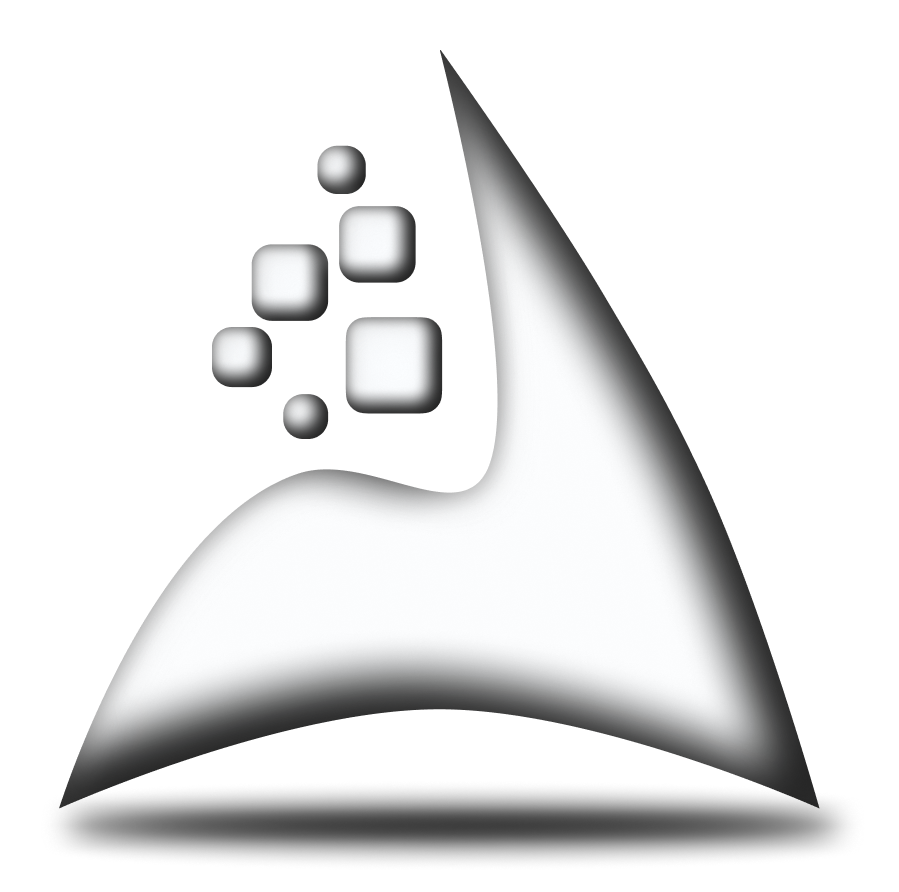
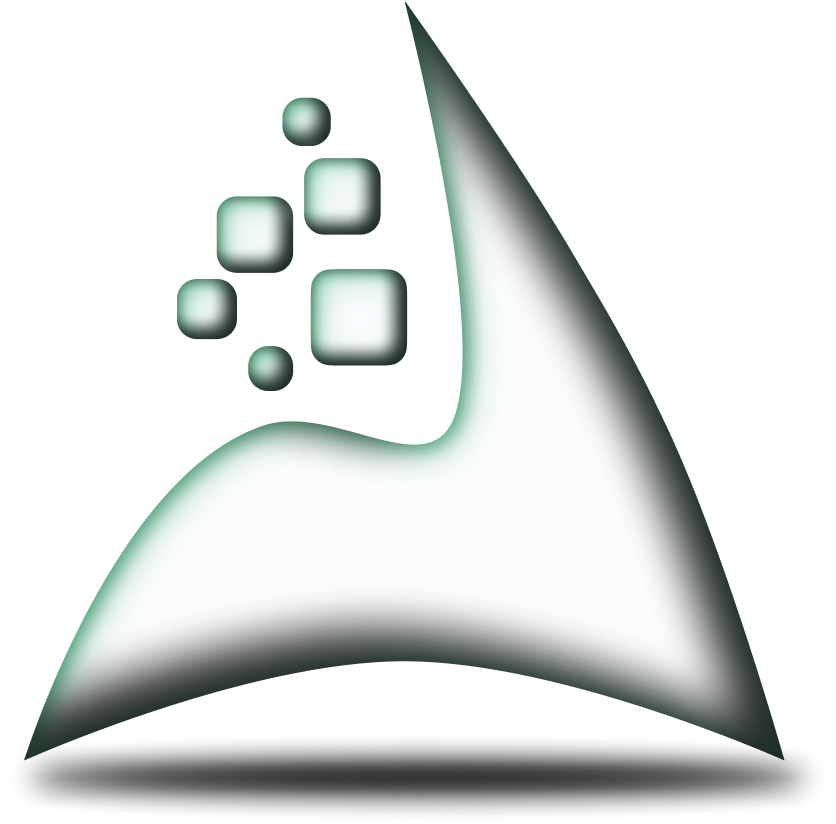
Feat: Add "about us" and "services" pages; Add a primary color

Changed region(s): [[0.0311, 0.0, 0.9641, 1.0], [0.3421, 0.7585, 0.7464, 0.8495], [0.2177, 0.8192, 0.3421, 0.8495]]

diff --git a/src/components/homepage_components/Services.tsx b/src/components/homepage_components/Services.tsx
@@ -12,36 +12,36 @@ export const Services = () => {
       title: "Process Automation",
       content:
         "Automate repetitive workflows across departments using RPA bots and integrations.",
-      icon: <WorkflowIcon className="w-6 h-6" />,
+      icon: <WorkflowIcon className="w-6 h-6" stroke="#fff" />,
     },
     {
       title: "Data Handling",
       content:
         "Extract, transform, and migrate data securely between systems — fast and error-free.",
-      icon: <DatabaseIcon className="w-6 h-6" />,
+      icon: <DatabaseIcon className="w-6 h-6" stroke="#fff" />,
     },
     {
       title: "Compliance & Auditing",
       content:
         "Ensure process compliance with logging, tracking, and audit-ready automation.",
-      icon: <ShieldCheckIcon className="w-6 h-6" />,
+      icon: <ShieldCheckIcon className="w-6 h-6" stroke="#fff" />,
     },
     {
       title: "Bot Monitoring",
       content:
         "Monitor your bots in real-time and receive alerts to guarantee operational stability.",
-      icon: <MonitorIcon className="w-6 h-6" />,
+      icon: <MonitorIcon className="w-6 h-6" stroke="#fff" />,
     },
   ];
   return (
     <section className="px-6 py-10 bg-black text-white">
-      <h2 className="text-3xl bg-gradient-to-r from-white to-[#737373] bg-clip-text text-transparent mt-14 mb-6 w-fit">
+      <h2 className="text-3xl bg-gradient-to-r from-white to-[#737373] bg-clip-text text-transparent mb-6 w-fit">
         Our Services
       </h2>
       <div className="grid grid-rows-4 divide-y divide-[#505050]">
         {servicesDict.map((item) => (
           <div key={item.title} className="flex items-start gap-4 py-4">
-            <div className="p-3 bg-white text-black rounded-xl">
+            <div className="p-3 bg-primaryL text-black rounded-xl">
               {item.icon}
             </div>
             <div>

diff --git a/src/components/homepage_components/Hero.tsx b/src/components/homepage_components/Hero.tsx
@@ -1,0 +1,50 @@
+"use client";
+import Image from "next/image";
+import Link from "next/link";
+
+export const Hero = () => {
+  return (
+    <main className="px-6 lg:pl-48 relative flex flex-col lg:flex-row">
+      <div className="pt-10 lg:pt-32">
+        <h1 className="uppercase font-bold text-4xl lg:text-5xl bg-gradient-to-r from-white to-[#737373] bg-clip-text text-transparent w-fit">
+          Improving and optimizing
+          <br />
+          your company processes
+        </h1>
+        <div className="flex justify-between items-center gap-x-2 py-8">
+          <div className="flex gap-x-2">
+            <div className="w-1 h-1 bg-white rounded-full" />
+            <div className="w-1 h-1 bg-white rounded-full" />
+            <div className="w-1 h-1 bg-white rounded-full" />
+          </div>
+          <hr className="bg-gradient-to-r from-white to-[#737373] h-[2px] w-full" />
+        </div>
+
+        <div className="gap-y-6 flex flex-col">
+          <Link
+            href="/services"
+            className="text-center font-2 text-xl rounded-full py-3 bg-primaryL text-white w-[calc(30vw+50px)] cursor-pointer shadow-[]"
+          >
+            Services
+          </Link>
+          <Link
+            href="/about"
+            className="text-center font-2 text-xl rounded-full py-3 border-2 border-[#fff] text-white w-[calc(30vw+50px)] cursor-pointer"
+          >
+            See More
+          </Link>
+        </div>
+
+        <div className="flex justify-center items-center">
+          <Image
+            width={899}
+            height={892}
+            alt="Introduction logo"
+            src="/introducao.png"
+            className="w-full lg:w-[899px] lg:max-w-[60vw] aspect-square"
+          />
+        </div>
+      </div>
+    </main>
+  );
+};

diff --git a/src/components/comum_components/Footer.tsx b/src/components/comum_components/Footer.tsx
@@ -25,11 +25,11 @@ export const Footer = () => {
               width="36"
               height="36"
               viewBox="0 0 50 50"
-              fill="#ddd"
+              fill="var(--primaryxL)"
             >
               <path d="M41,4H9C6.24,4,4,6.24,4,9v32c0,2.76,2.24,5,5,5h32c2.76,0,5-2.24,5-5V9C46,6.24,43.76,4,41,4z M17,20v19h-6V20H17z M11,14.47c0-1.4,1.2-2.47,3-2.47s2.93,1.07,3,2.47c0,1.4-1.12,2.53-3,2.53C12.2,17,11,15.87,11,14.47z M39,39h-6c0,0,0-9.26,0-10 c0-2-1-4-3.5-4.04h-0.08C27,24.96,26,27.02,26,29c0,0.91,0,10,0,10h-6V20h6v2.56c0,0,1.93-2.56,5.81-2.56 c3.97,0,7.19,2.73,7.19,8.26V39z"></path>
             </svg>
-            <p>Linkedin</p>
+            <p className="text-primaryxL">Linkedin</p>
           </a>
           <a
             href="https://www.instagram.com/leveling.corp/"
@@ -37,8 +37,8 @@ export const Footer = () => {
             aria-label="Instagram"
             className="hover:text-gray-400 flex gap-x-2 justify-center items-center"
           >
-            <Instagram stroke="#ddd" strokeWidth={2} size={32} />
-            <p>Instagram</p>
+            <Instagram stroke="var(--primaryxL)" strokeWidth={2} size={32} />
+            <p className="text-primaryxL">Instagram</p>
           </a>
         </div>
 

diff --git a/src/app/page.tsx b/src/app/page.tsx
@@ -1,14 +1,13 @@
-import { Footer } from "@/components/Footer";
-import { Header } from "@/components/Header";
-import { Hero } from "@/components/Hero";
-import { Objectives } from "@/components/Objectives";
-import { Services } from "@/components/Services";
-import { Unlock } from "@/components/Unlock";
+import { Footer } from "@/components/comum_components/Footer";
+import { Header } from "@/components/comum_components/Header";
+import { Hero } from "@/components/homepage_components/Hero";
+import { Objectives } from "@/components/homepage_components/Objectives";
+import { Services } from "@/components/homepage_components/Services";
+import { Unlock } from "@/components/homepage_components/Unlock";
 
 export default function Home() {
   return (
     <>
-      <Header />
       <Hero />
       <Objectives />
       <Unlock />

diff --git a/src/app/(pages)/about/page.tsx b/src/app/(pages)/about/page.tsx
@@ -1,0 +1,27 @@
+import { ChevronLeft } from "lucide-react";
+import Image from "next/image";
+
+export default function About() {
+  return (
+    <>
+      <main className="mt-10 px-6">
+        <a
+          href="/"
+          className="flex items-center text-lg py-2 pl-2 pr-4 border-2 border-[#aaa] w-fit rounded-full mb-10 text-white"
+        >
+          <ChevronLeft className="inline" stroke="#aaa" /> Home
+        </a>
+        <h1 className="uppercase font-bold text-4xl lg:text-5xl bg-gradient-to-r from-white to-[#737373] bg-clip-text text-transparent w-fit">
+          About Us
+        </h1>
+        <Image
+          width={1200}
+          height={900}
+          alt="About main image"
+          src="/about.png"
+          className="absolute left-0"
+        />
+      </main>
+    </>
+  );
+}

diff --git a/src/app/layout.tsx b/src/app/layout.tsx
@@ -2,6 +2,7 @@ import type { Metadata } from "next";
 import { Atkinson_Hyperlegible } from "next/font/google";
 import { Instrument_Sans } from "next/font/google";
 import "./globals.css";
+import { Header } from "@/components/comum_components/Header";
 
 const instrument_sans = Instrument_Sans({
   variable: "--font-instrument-sans",
@@ -27,7 +28,10 @@ export default function RootLayout({
 }>) {
   return (
     <html lang="en" className={(instrument_sans.variable, atkinson.variable)}>
-      <body className="antialiased">{children}</body>
+      <body className="antialiased">
+        <Header />
+        {children}
+      </body>
     </html>
   );
 }

diff --git a/src/components/homepage_components/Unlock.tsx b/src/components/homepage_components/Unlock.tsx
@@ -2,8 +2,10 @@ import React from "react";
 
 export const Unlock = () => {
   return (
-    <section className="bg-white w-full text-lg lg:text-2xl text-black px-6 py-10">
-      <h2 className="text-3xl mb-4">Improve to the next Level</h2>
+    <section className="bg-white w-full text-lg lg:text-2xl text-[#242424] px-6 py-10">
+      <h2 className="text-3xl mb-4 font-bold text-primary">
+        Improve to the next Level
+      </h2>
       <p>
         Unlock efficiency with Leveling RPA Services, liberating your team from
         repetitive tasks. Embrace a digital workforce for creative and strategic

diff --git a/src/app/globals.css b/src/app/globals.css
@@ -5,6 +5,9 @@
   --foreground: #171717;
   --font-instrument-sans: "Instrument Sans", sans-serif;
   --font-atkinson: "Atkinson Hyperlegible", mono;
+  --primary: #123524;
+  --primaryL: #348e62;
+  --primaryxL: #41b17b;
 }
 
 @theme inline {
@@ -12,6 +15,9 @@
   --color-foreground: var(--foreground);
   --font-1: var(--font-instrument-sans);
   --font-2: var(--font-atkinson);
+  --color-primary: var(--primary);
+  --color-primaryL: var(--primaryL);
+  --color-primaryxL: var(--primaryxL);
 }
 
 @media (prefers-color-scheme: dark) {

diff --git a/src/components/homepage_components/Objectives.tsx b/src/components/homepage_components/Objectives.tsx
@@ -46,7 +46,10 @@ export const Objectives = () => {
         {objectivesDict.map((obj, index) => {
           const isOpen = openIndex === index;
           return (
-            <li key={index} className="border-l-2 border-white pl-2 relative">
+            <li
+              key={index}
+              className="border-l-2 border-primaryL pl-2 relative"
+            >
               <div
                 className={`flex items-center justify-between cursor-pointer py-1`}
                 onClick={() => toggleIndex(index)}

diff --git a/src/components/comum_components/Header.tsx b/src/components/comum_components/Header.tsx
@@ -10,7 +10,7 @@ export const Header = () => {
           height={223}
           alt="Leveling logo"
           src="/logo_header.png"
-          className="w-10 aspect-square m-4"
+          className="w-10 aspect-square ml-6 mt-3"
         />
       </div>
     </header>

diff --git a/src/app/(pages)/services/page.tsx b/src/app/(pages)/services/page.tsx
@@ -1,0 +1,7 @@
+export default function services() {
+  return (
+    <div>
+      <h1></h1>
+    </div>
+  );
+}
